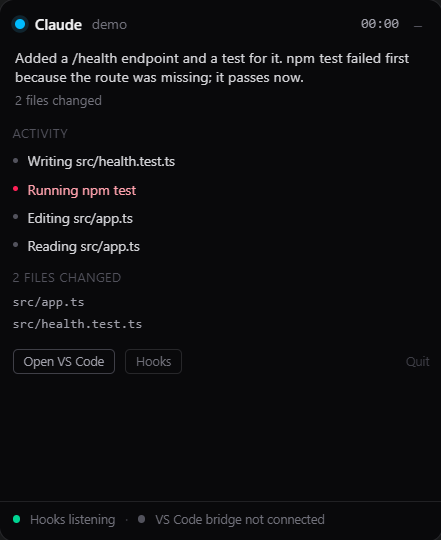
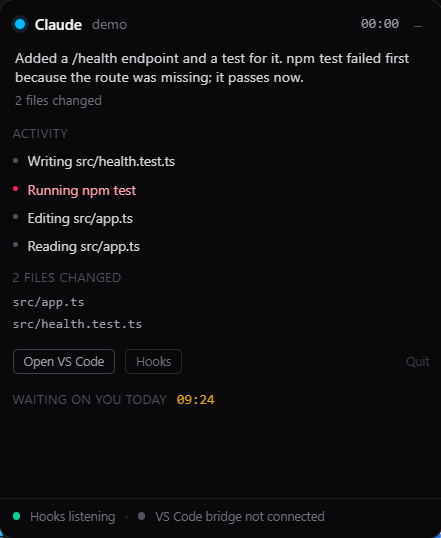
v0.1.5 — docs, screenshots, and a non-resizable window
Docs brought in line with what the app actually does. The README and both
capability ledgers still said Allow/Deny was deliberately unimplemented, which
stopped being true this session; that entry moved from NOT POSSIBLE to supported
and opt-in, with the measured fallback numbers rather than an assumption.

- README: a real "Permission decisions" section replacing the roadmap one, the
  new config fields, and three new rows in "What you get"
- docs/CAPABILITIES.md and capabilities.html: decisions, blocked-time and toast
  actions added; the old NOT POSSIBLE row now explains that it moved and why
- docs/index.html: three new feature cells and a screenshot of the decision state
- assets: bar-decision.png captured from the running app; expanded.png refreshed

Also: the overlay window is no longer user-resizable. Both modes are fixed sizes
the layout is designed around and a manual resize was discarded on the next
toggle anyway, so the drag handles only ever let you stretch the bar into
something wrong. Verified WS_THICKFRAME is gone while programmatic sizing still
works: 705x75 minimized, 438x538 expanded.

diff --git a/docs/capabilities.html b/docs/capabilities.html
@@ -105,6 +105,22 @@
       <td>Hook connection failure, timeout and non-2xx are all non-blocking by design.</td>
       <td>Tool calls ran in <strong>39 ms and 67 ms</strong> with every hook pointed at a dead server.</td>
     </tr>
+    <tr>
+      <td><strong>Approving or denying a prompt</strong><br><span class="tag-part">opt-in · off by default</span></td>
+      <td>The <code>PermissionRequest</code> response is held open and answered with the
+      documented decision body. Measured live: allow returns <code>200</code> with exactly
+      that payload; no click lapses to an empty <code>204</code> at 15.0&nbsp;s; a superseding
+      prompt releases the first at 2.8&nbsp;s; a client hangup drops the buttons in ~2&nbsp;s.</td>
+      <td><strong>Every non-explicit path is an empty <code>204</code></strong> — lapse, crash,
+      hangup, quit, feature off — which Claude Code treats as “no decision” and falls back to
+      prompting you normally. The cost: while a decision is outstanding <strong>VS Code's own
+      prompt does not appear</strong>, so ignoring the overlay delays it by up to the window.</td>
+    </tr>
+    <tr>
+      <td><strong>Time spent blocked on you</strong></td>
+      <td>Accumulated per session from prompts that outlived the grace window, banked per local day.</td>
+      <td>Auto-approved and interrupted prompts contribute nothing — it under-counts rather than over-counts.</td>
+    </tr>
   </table>
 </section>
 
@@ -186,8 +202,12 @@
       <td><code>SessionEnd</code> doesn't fire on <code>kill -9</code>. The session just stops emitting, which is indistinguishable from a long think. Resolved by a TTL, not a guess.</td>
     </tr>
     <tr>
-      <td><strong>Approve permissions <span style="color:var(--text-3)">(v1, by choice)</span></strong></td>
-      <td>Mechanically supported — <code>PermissionRequest</code> accepts a decision in the response body — but deliberately not built. It means holding the HTTP response open until you click, blocking that tool call against a 600-second default timeout, and an overlay that can approve tool calls deserves its own threat model. <strong>[ok] acknowledges only.</strong></td>
+      <td><strong>Approve a prompt without switching apps</strong></td>
+      <td><strong>This one moved.</strong> It is now built and opt-in — see the supported table
+      above. It stayed unbuilt for a while because holding the response open blocks the tool
+      call, and an overlay that can approve tool calls is a larger security surface than one
+      that only watches. Both are still true; the difference is that the fallback is now
+      measured rather than assumed. <strong>[ok] still acknowledges only.</strong></td>
     </tr>
   </table>
 </section>

diff --git a/docs/index.html b/docs/index.html
@@ -216,9 +216,19 @@
     </figure>
   </div>
 
+    <figure class="shot--bar">
+      <img src="assets/bar-decision.png" width="704" height="74" loading="lazy"
+           alt="Sidelong bar showing Run npm install? with a 13 second countdown and green Allow and red Deny buttons.">
+      <figcaption>Answering it — <strong>opt-in, off by default</strong>. The countdown is how
+      long until the hold lapses and VS Code prompts you instead; nothing is lost when it runs
+      out. While a decision is live, <em>Open VS Code</em> and <em>ok</em> are hidden, so one
+      prompt never offers four buttons.</figcaption>
+    </figure>
+  </div>
+
   <div class="shots shots--split" style="margin-top:34px">
     <figure>
-      <img src="assets/expanded.png" width="441" height="540" loading="lazy"
+      <img src="assets/expanded.png" width="441" height="538" loading="lazy"
            alt="Sidelong expanded card showing a completion summary, an activity timeline with a failed npm test, two changed files, and connection status.">
       <figcaption>The expanded card</figcaption>
     </figure>
@@ -254,6 +264,12 @@
       <p>With the VS Code bridge, notifications stay quiet while VS Code has focus.</p></div>
     <div class="cell"><span class="cell__n">06</span><h3>Cannot break your session</h3>
       <p>Hook failures are non-blocking by design. Kill the app mid-run and Claude Code doesn't notice.</p></div>
+    <div class="cell"><span class="cell__n">07</span><h3>Allow / Deny <span style="color:var(--text-3);font-family:var(--mono);font-size:11px">opt-in</span></h3>
+      <p>Answer a prompt from the bar. Off by default — silence never approves, and every other path falls back to VS Code's own prompt.</p></div>
+    <div class="cell"><span class="cell__n">08</span><h3>Act from the toast</h3>
+      <p><em>Open VS Code</em> is a button on the notification itself, so you skip the overlay.</p></div>
+    <div class="cell"><span class="cell__n">09</span><h3>What waiting costs</h3>
+      <p>Totals how long Claude actually sat blocked on you today. Nothing else can measure it.</p></div>
   </div>
 </section>
 

diff --git a/apps/desktop/src/main/index.ts b/apps/desktop/src/main/index.ts
@@ -179,13 +179,16 @@ function createWindow(): BrowserWindow {
     y: cfg.bounds?.y ?? area.y + 24,
     frame: false,
     transparent: true,
-    resizable: true,
-    // Size the CONTENT, not the window rect. A frameless resizable window on
-    // Windows still carries an invisible resize border, and without this the
-    // card ends up a few pixels short of what the layout was designed for.
+    // Not user-resizable. Both modes are fixed sizes the layout is designed
+    // around, and a manual resize was discarded on the next toggle anyway -- so
+    // the drag handles only ever let you stretch the bar into something wrong.
+    // setContentSize still works programmatically, which is how expand/minimize
+    // changes it.
+    resizable: false,
+    // Size the CONTENT, not the window rect: a frameless window on Windows still
+    // carries an invisible border, and without this the card ends up a few pixels
+    // short of what the layout expects.
     useContentSize: true,
-    minWidth: 220,
-    minHeight: 40,
     maximizable: false,
     minimizable: false,
     fullscreenable: false,
@@ -207,8 +210,9 @@ function createWindow(): BrowserWindow {
   w.setAlwaysOnTop(true, 'screen-saver');
   w.setVisibleOnAllWorkspaces(true, { visibleOnFullScreen: true });
 
+  // Only 'moved': the window is no longer user-resizable, and size always comes
+  // from the mode constants rather than anything persisted.
   w.on('moved', () => saveBounds(w));
-  w.on('resized', () => saveBounds(w));
   w.on('closed', () => { win = undefined; });
 
   if (process.env.ELECTRON_RENDERER_URL) {

diff --git a/CHANGELOG.md b/CHANGELOG.md
@@ -9,32 +9,71 @@ code — each entry names the root cause rather than the symptom.
 
 ---
 
-## [Unreleased]
+## [0.1.5] — 2026-08-08
+
+### Added
+
+- **Permission decisions — real Allow / Deny.** `PermissionRequest` can be held
+  open and answered with the documented decision body. **Off by default**: it
+  changes what this app is, since a watcher gains the ability to run things.
+  Enabling it requires reinstalling the hooks, and drift detection now compares
+  timeouts so a stale 5-second hook cannot silently cut every decision short.
+
+  Measured against the running app: any non-permission event still returns `204`
+  in **81 ms**; a real Allow returns `200` with exactly the decision payload; no
+  click lapses to an empty `204` at **15.0 s**; a superseding prompt releases the
+  first hold at **2.8 s**; a client hangup drops the buttons in ~2 s.
+
+  **Silence never approves.** Every non-explicit path — lapse, crash, hangup,
+  quit, superseded, feature off — sends an empty `204`, which Claude Code treats
+  as "no decision" and falls back to prompting you normally. The reference is
+  explicit: *"staying silent doesn't approve it."*
+
+  The unavoidable cost: while a decision is outstanding, **VS Code's own prompt
+  does not appear**, so ignoring the overlay delays it by up to
+  `decisionWindowMs`. Mitigated by answering instantly with "no decision" when
+  the bridge reports VS Code already has focus.
+
+- **Open VS Code as a toast button.** Verified against the Electron docs that
+  action buttons are supported on Windows (macOS additionally needs a signed app
+  with an `alert` alert-style, where it degrades to the toast body).
+
+- **Time blocked on you, per day.** Accumulated in the reducer from prompts that
+  outlived the grace window and banked per local day. Auto-approved and
+  interrupted prompts contribute nothing, so it under-counts rather than
+  over-counts — a test walks all eight ways a prompt can end and asserts they
+  bank the same amount.
 
 ### Changed
 
 - **Removed the implication that other agents are supported.** The
-  `agent-adapters` package described itself as keeping the overlay "agnostic
-  about which agent it is watching", and its header offered adding a Codex or
-  Gemini adapter as "a new file plus one `register()` call". Both read as
-  multi-agent support. They were wrong: Codex was tested and does not work.
+  `agent-adapters` package claimed to keep the overlay "agnostic about which
+  agent it is watching" and offered a Codex or Gemini adapter as "a new file
+  plus one `register()` call". Codex was tested: it does not work. The reason is
+  **transport, not events** — Codex CLI and Gemini CLI both have hook systems
+  with strikingly similar event names, but both run local commands only and hand
+  JSON to a script on stdin. Claude Code is currently the only one that can POST
+  a hook event to an HTTP URL, which is what this app receives. Supporting
+  another agent is feasible via a relay script, but it is real work, not a new
+  file against an interface that has exactly one implementation.
+- **The overlay window is no longer user-resizable.** Both modes are fixed sizes
+  the layout is designed around, and a manual resize was discarded on the next
+  toggle anyway — so the drag handles only ever let you stretch the bar into
+  something wrong. Programmatic expand/minimize is unaffected.
 
-  The reason is **transport, not events** — worth stating precisely, because
-  "other agents have no hooks" would be equally wrong. Checked against current
-  documentation: **Codex CLI and Gemini CLI both have hook systems**, with
-  strikingly similar event names (`PreToolUse`, `PostToolUse`, `Stop`,
-  `SessionStart`…) and similar payload fields. But **both run local commands
-  only**, handing JSON to a script on stdin; Codex's docs state plainly that only
-  `type: "command"` handlers run. Claude Code is currently the only one that can
-  POST a hook event to an HTTP URL, and this app's receiver is HTTP — so nothing
-  from the others ever arrives.
+### Fixed
 
-  Supporting another agent is therefore *feasible* — a relay script that reads
-  stdin and POSTs to the receiver, plus a per-agent config installer and payload
-  verification against real captures — but it is real work, not a new file
-  against the `AgentAdapter` interface. That interface has exactly one
-  implementation and is an internal seam, not a plug-in point. Now stated as such
-  in the README, the docs site, the capability ledger and the package itself.
+- Allow/Deny and `[Open VS Code]`/`[ok]` could render together — four buttons for
+  one decision, with the hidden pair still clickable and tab-reachable underneath.
+  A live decision now suppresses the acknowledge pair, and deciding also marks the
+  prompt acknowledged so it does not reappear the instant Allow is clicked.
+- An abandoned hold left the buttons counting down against a request nobody was
+  waiting on. Closure is now reported and the hold dropped immediately.
+- Allow/Deny mounted and unmounted abruptly while the acknowledge pair faded; both
+  now use the identical always-mounted, opacity-only treatment.
+- Blocked-time stats were only flushed on `will-quit`, which never fires on a
+  force-kill — so the figure vanished exactly when someone exercises the
+  kill-the-app property this project advertises. Now flushed on the view tick.
 
 ---
 
@@ -176,6 +215,7 @@ See [docs/CAPABILITIES.md](docs/CAPABILITIES.md). The significant ones: permissi
 during model inference; and macOS and Linux build in CI but their overlay
 behaviour is untested.
 
+[0.1.5]: https://github.com/UtkarshloneyaITG/sidelong-claude-code-status-bar/releases/tag/v0.1.5
 [0.1.4]: https://github.com/UtkarshloneyaITG/sidelong-claude-code-status-bar/releases/tag/v0.1.4
 [0.1.3]: https://github.com/UtkarshloneyaITG/sidelong-claude-code-status-bar/releases/tag/v0.1.3
 [0.1.2]: https://github.com/UtkarshloneyaITG/sidelong-claude-code-status-bar/releases/tag/v0.1.2

diff --git a/README.md b/README.md
@@ -70,6 +70,9 @@ stops, and you find out when you happen to look. Multiply that by a dozen times 
 | **Quiet when you're already looking** | With the bridge extension, notifications are suppressed while VS Code has focus. |
 | **Long silences don't lie** | A long build or a thinking model dims the bar — it never flips to "error" or "idle" on a timeout. |
 | **Zero risk to your session** | Hook failures are non-blocking by design. Killing the overlay cannot affect Claude Code — measured, not assumed. |
+| **Answer prompts from the bar** *(opt-in)* | **Allow** / **Deny** without switching apps. Off by default — see [Permission decisions](#permission-decisions--allow--deny). |
+| **Act straight from the notification** | The toast carries an **Open VS Code** button, so you skip the overlay entirely. |
+| **See what waiting costs you** | The expanded card totals how long Claude actually sat blocked on you today. Nothing else can compute it. |
 
 > [!IMPORTANT]
 > **Claude Code only — and the reason is transport, not events.**
@@ -349,7 +352,9 @@ No environment variables, no `.env`. One JSON file, created on first launch:
 | `shortcut` | `Control+Shift+Space` | Global show/minimize shortcut. |
 | `staleMs` | `90000` | Silence after which a working session dims. **Never changes its status.** |
 | `completedDismissMs` | `20000` | How long a completed turn stays expanded. `0` disables. |
-| `debugLog` | `false` | Opt-in local debug logging. Off by default — payloads are sensitive. |
+| `debugLog` | `false` | Opt-in local logging of event **names only**, never payloads. Off by default. |
+| `permissionDecisions` | `false` | Enable **Allow / Deny**. Changing it requires reinstalling the hooks. |
+| `decisionWindowMs` | `15000` | How long a prompt may be held. The longest this app can ever stall one tool call. |
 
 > [!IMPORTANT]
 > The port and token live in a **settings file**, so both must be stable across launches. A
@@ -562,24 +567,61 @@ pieces. Worth noting that the one failure mode people actually care about here i
 covered by design rather than by a legal disclaimer — hook failures are
 non-blocking, so Sidelong cannot take your coding session down with it.
 
-## Roadmap — permission controls
+## Permission decisions — Allow / Deny
 
-`PermissionRequest` accepts a decision in the response body:
+**Off by default.** Switching it on changes what this app is: a watcher gains the ability to
+run things.
+
+```jsonc
+// %APPDATA%\agent-watcher-desktop\config.json
+"permissionDecisions": true,
+"decisionWindowMs": 15000
+```
+
+Then **reinstall the hooks** — `node tools/install-hooks.mjs install`. Toggling changes the
+installed `PermissionRequest` timeout, and drift detection compares timeouts, so the app
+tells you rather than leaving a 5-second hook that cuts every decision short.
+
+With it on, a permission prompt holds its HTTP response open and the bar shows **Allow** /
+**Deny** with a countdown. Clicking answers Claude Code directly with the documented body:
 
 ```json
 { "hookSpecificOutput": { "hookEventName": "PermissionRequest",
   "decision": { "behavior": "allow" } } }
 ```
 
-So real `[Allow]` / `[Deny]` buttons are achievable through a supported mechanism, and the
-ingest handler is already shaped so a response body *could* be returned.
+### Why it is safe to leave on, and where it isn't
+
+> [!IMPORTANT]
+> **Silence never approves.** Every path that is not an explicit click — the window lapsing,
+> a crash, Claude Code hanging up, quitting the app, a newer prompt superseding this one, the
+> feature being off — ends as an **empty `204`**. Claude Code documents that as *"no
+> decision"* and falls back to prompting you normally. The reference is explicit: *"staying
+> silent doesn't approve it."*
+
+Measured against the running app:
+
+| Path | Result |
+|---|---|
+| Any non-permission event | `204` in **81 ms** — still 204-and-forget |
+| **Allow** clicked | `200` with exactly the decision body above |
+| No click | empty `204` at **15.0 s** → VS Code prompts as usual |
+| Second prompt supersedes the first | first hold released at **2.8 s**, empty |
+| Claude Code hangs up | buttons drop within ~2 s, not at the deadline |
+
+Only `PermissionRequest` may ever hold. A test asserts that enabling decisions leaves every
+other hook's timeout **byte-identical**, so this can't become a licence to loosen the rest.
+`settle()` runs at most once, so a click racing the deadline can't write to a finished
+response. The IPC channel names no command and carries no path — a session id and one of
+three fixed verbs, refused outright when the feature is off.
 
 > [!CAUTION]
-> **Deliberately not implemented.** Returning a decision means holding the HTTP response open
-> until you click, which **blocks that tool call** for the whole time — against a 600-second
-> default timeout. That behaviour needs to be understood and tested before it is trusted, and
-> an overlay that can approve tool calls is a meaningfully larger security surface than one
-> that only watches. It deserves its own threat model.
->
-> Until then: observe, notify, offer `[Open VS Code]`. **`[ok]` acknowledges only. It never
-> simulates approval.**
+> **The real cost, which no design removes.** While a decision is outstanding the tool call is
+> blocked and **VS Code's own prompt does not appear**. If you ignore the overlay, you have
+> *delayed* the normal prompt by up to `decisionWindowMs`. Mitigated by answering instantly
+> with "no decision" whenever the bridge reports VS Code already has focus — which is exactly
+> when the overlay is useless — but that needs the bridge extension installed.
+
+**`[ok]` is still not approval.** It acknowledges: the bar stops drawing attention and
+nothing is sent to Claude Code. When a decision is live, `[ok]` and `[Open VS Code]` are
+hidden entirely so one prompt never offers four buttons.

diff --git a/docs/CAPABILITIES.md b/docs/CAPABILITIES.md
@@ -29,6 +29,9 @@ A limitation documented here is worth more than a capability faked.
 | **VS Code focus / active editor / diagnostics / git branch** | VS Code extension over WebSocket | Absent entirely if the extension is not installed. The overlay says so and keeps working. |
 | **Notification suppression while VS Code is focused** | `vscode.window.state.focused` pushed from the bridge | Without the bridge, notifications always fire. |
 | **Closing the overlay never affects a coding session** *(verified: tool calls ran in 39ms and 67ms with every hook pointed at a dead server)* | Hook connection failure / timeout / non-2xx are all non-blocking by design | — |
+| **Approving or denying a permission** *(opt-in, off by default)* | The `PermissionRequest` response is held open and answered with `{"hookSpecificOutput":{"hookEventName":"PermissionRequest","decision":{"behavior":"allow"\|"deny"}}}`. Measured live: allow returns `200` with exactly that body; no click lapses to an empty `204` at 15.0s; a superseding prompt releases the first at 2.8s; a client hangup drops the buttons in ~2s. | **Every non-explicit path is an empty `204`**, which Claude Code treats as "no decision" and falls back to prompting normally — the reference is explicit that *"staying silent doesn't approve it."* The real cost is that while a decision is outstanding **VS Code's own prompt does not appear**, so ignoring the overlay delays the normal prompt by up to `decisionWindowMs`. Answered instantly with "no decision" when the bridge reports VS Code already has focus. |
+| **Time spent blocked on you** | Accumulated in the reducer per session from prompts that outlived the grace window, banked per local day by the main process. | Prompts auto-approved inside the grace window and prompts you interrupted contribute nothing — it under-counts rather than over-counts. |
+| **Acting from the notification** | A `button` action on the toast. Supported on Windows; macOS additionally needs a signed app with an `alert` alert-style. | Where the button is unavailable, clicking the toast body still opens the overlay. |
 
 ---
 
@@ -53,7 +56,6 @@ A limitation documented here is worth more than a capability faked.
 | **Reading Claude Code's in-memory state** | No API exposes another extension's internals. The VS Code Extension API cannot see inside the Claude Code extension at all. This is the assumption that sinks naive versions of this project. |
 | **Reading terminal scrollback** | There is no supported VS Code API to read a terminal's buffer. `Terminal.processId` and shell integration events do not give you the text. |
 | **Knowing what Claude is "thinking" between tool calls** | No hook fires during model inference. A long gap between `PostToolUse` and the next `PreToolUse` is genuinely opaque — which is why a long silence dims the overlay but never changes its status. |
-| **Approving or denying permissions (V1, by choice)** | Mechanically supported — `PermissionRequest` accepts `{"hookSpecificOutput":{"hookEventName":"PermissionRequest","decision":{"behavior":"allow"}}}` — but deliberately not implemented. The `[ok]` button on the bar **acknowledges only**: it shrinks the bar and sends nothing. See the Phase 6 section of the README. |
 | **Raising the VS Code window from the extension** | VS Code exposes no API for an extension to bring its own OS window to the front. `workbench.action.focusActiveEditorGroup` moves focus *within* the window only. Raising is done by the desktop app opening an already-open **file** via `vscode://file/`, which is why a real file path matters. |
 | **Knowing the moment a permission is GRANTED** | **Permission grants are silent — no hook fires.** The order is `PreToolUse → PermissionRequest → PostToolUse`, with nothing in between; only *denials* by the auto-mode classifier get an event (`PermissionDenied`). So if you approve in VS Code, the earliest hard evidence is `PostToolUse` when the tool *finishes* — many seconds later for a long install. Mitigated, not solved: clicking `[Open VS Code]`, or the bridge reporting VS Code took focus, stops the bar drawing attention. Neither claims the prompt was approved, and the real state still clears on `PostToolUse`. |
 | **Detecting that a turn was INTERRUPTED** | **Nothing fires when you press Esc — measured, not assumed.** Over 168 captured events, 3 of 6 turns ended with no event whatsoever: no `Stop`, no `PostToolUseFailure`, no `Notification`, no `SessionEnd`. One tool call produced a `PreToolUse` with no matching `PostToolUse`, so its activity stays "running" indefinitely. Mitigated, not solved: once a session with **no tool running** has been silent past the stale threshold, the bar stops asserting an activity and shows `No events for 4m` instead. It never claims the turn stopped, because it cannot know that. Silence *while a tool runs* is left alone — a long build legitimately emits nothing between `PreToolUse` and `PostToolUse`. |
